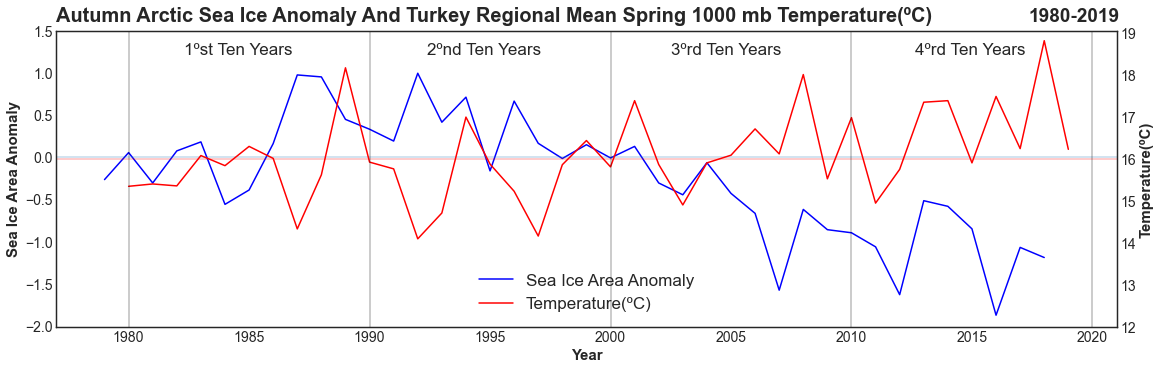
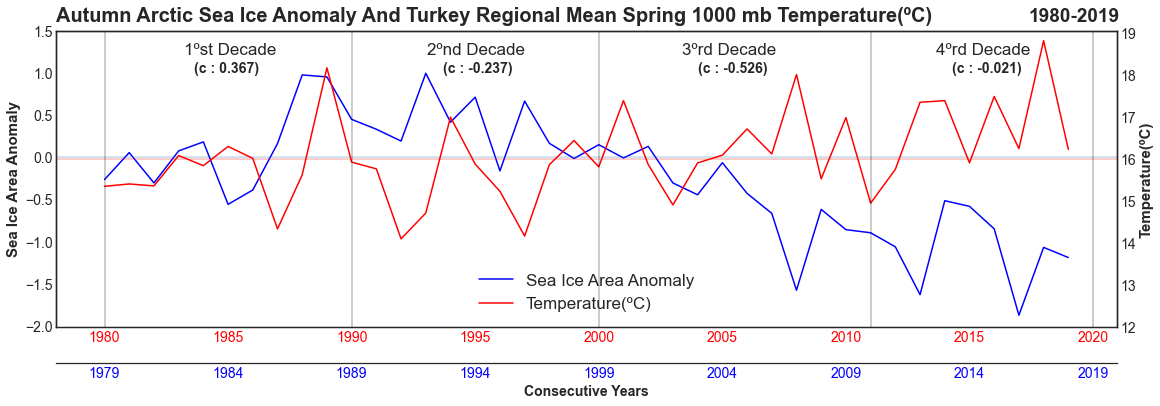
added and updated new figures and codes of PW Time series

diff --git a/PROJECT_CODES_Arctic/Timeseries_Codes/Arctic_Timeseries_Plot.py b/PROJECT_CODES_Arctic/Timeseries_Codes/Arctic_Timeseries_Plot.py
@@ -1,4 +1,3 @@
-import matplotlib.pyplot as plt
 import numpy as np
 import scipy
 import cartopy
@@ -10,13 +9,13 @@ import netCDF4
 import pandas as pd
 
 #To find autumnal arctic anomaly we import ARCTIC_ANOMALY_CALC.py which contains function that calculates autumnal arctic anomaly
-import .ARCTIC_ANOMALY_CALC
+import ARCTIC_ANOMALY_CALC
 
 anomalyseaice = ARCTIC_ANOMALY_CALC.arctic_autumnal_anomaly()
 
 def plot_winter_timeseries_ARCTIC(var):
     """ Return timeseries plot that includes Autumnal Arctic Sea Ice Anomalies and
-        desired variable values between the years 1979-2019
+        desired variable values for winter between the years 1979-2019
         var : Desired variable to plot with Autumnal Arctic Sea Ice Anomaly (Given as str)
               (MSLP, 1000MBTEMP, SNWCOV, PRECIPWATER)
     """
@@ -38,19 +37,19 @@ def plot_winter_timeseries_ARCTIC(var):
         plot_lim_sep = 1
         plot_title_ext = 'Temperature(ºC)'
         plot_title = '1000 mb Temperature(ºC)'
-    #####elif var == 'SNOWCOV':
-     #####   data_winter = xr.open_dataset(r'C:\Users\Lenovo\ML\Elcinhoca_proje\dataset_adjusted\CFSR_1979_2019_SNOWCOV_winter.nc')  
-     #####   data_winter = data_winter['SNOWC_L1_FcstAvg6hr']
-     #####   plot_lim_A = 0
-     #####   plot_lim_B = 35
-     #####   plot_lim_sep = 5
-     #####   plot_title_ext = 'Snow Cover (%)'
-     #####   plot_title = 'Snow Cover (%)'
+    elif var == 'PRECIPWATER':
+        data_winter = xr.open_dataset(r'C:\Users\Lenovo\ML\Elcinhoca_proje\dataset_adjusted\CFSR_1979_2019_PRECIPWATER_winter.nc')  
+        data_winter = data_winter['P_WAT_L200_Avg']
+        plot_lim_A = 7
+        plot_lim_B = 14
+        plot_lim_sep = 1
+        plot_title_ext = 'Precipitable Water(kg/m2)'
+        plot_title = 'Precipitable Water(kg/m2)'
     #_____________________________________________________#
     #                     PROCESS1                        #
     #_____________________________________________________#
     #Set winter months dec,jan,feb seperately for 30 years in a list
-    #1980[mart,nisan,mayıs], 1981[mart,nisan,mayıs]  NOTE:slice() funsction used be careful!
+    #1980[dec, jan, feb], 1981[dec, jan, feb]  NOTE:slice() funsction used be careful!
     data_winter_yearly_months = [] 
     time_iter = 0
     for i in range(41):
@@ -80,27 +79,36 @@ def plot_winter_timeseries_ARCTIC(var):
         wintertimeseries_data_40years_turkey_mean_array = np.array(wintertimeseries_data_40years_turkey_mean.values)/100
     elif var == '1000MBTEMP':
         wintertimeseries_data_40years_turkey_mean_array = np.array(wintertimeseries_data_40years_turkey_mean.values)-273.15
-    #####elif var == 'SNOWCOV':
-        #####wintertimeseries_data_40years_turkey_mean_array = np.array(wintertimeseries_data_40years_turkey_mean.values)
+    elif var == 'PRECIPWATER':
+        wintertimeseries_data_40years_turkey_mean_array = np.array(wintertimeseries_data_40years_turkey_mean.values)
     
     mean_for_plot_line = np.mean(wintertimeseries_data_40years_turkey_mean_array) 
     
-    #_____________________________________________________#
-    #                     PROCESS4                        #
-    #_____________________________________________________#
+    first_corr = np.corrcoef(anomalyseaice[0:10], wintertimeseries_data_40years_turkey_mean_array[0:10])
+    first_corr = np.round(first_corr[0,1], 3)
     
+    second_corr = np.corrcoef(anomalyseaice[10:20], wintertimeseries_data_40years_turkey_mean_array[10:20])
+    second_corr = np.round(second_corr[0,1], 3)
+    
+    third_corr = np.corrcoef(anomalyseaice[20:31], wintertimeseries_data_40years_turkey_mean_array[20:31])
+    third_corr = np.round(third_corr[0,1], 3)
+    
+    fourth_corr = np.corrcoef(anomalyseaice[31:40], wintertimeseries_data_40years_turkey_mean_array[31:40])
+    fourth_corr = np.round(fourth_corr[0,1], 3)
+    
+    corr_full = np.corrcoef(anomalyseaice[:], wintertimeseries_data_40years_turkey_mean_array[:])
+
     plt.style.use('seaborn-white')
     plt.rcParams['figure.figsize'] = 19, 12
     fig = plt.figure()
     ax1 = fig.add_subplot(2,1,1)
     yearsall = np.arange(1979,2019)
     yearsall1 = np.arange(1980,2020)
-    mesh1,=ax1.plot(yearsall,anomalyseaice[:],color='blue')
+    mesh1,=ax1.plot(yearsall1,anomalyseaice[:],color='blue')
     #mesh2,=ua_10_2006_2099['ua'].plot.line(ax=ax1,color='red')
 
 
     plt.ylabel('Sea Ice Area Anomaly', fontsize=15,weight='bold')
-    plt.xlabel('Year', fontsize=15,weight='bold')
     ax1.tick_params(axis='y', labelsize=14)
     ax1.tick_params(axis='x', labelsize=14)
     plt.yticks(np.arange(-2,1.6,0.5))
@@ -119,19 +127,221 @@ def plot_winter_timeseries_ARCTIC(var):
     plt.axvline(x = 1980, linewidth=0.4,color='k')
     plt.axvline(x = 1990, linewidth=0.4,color='k')
     plt.axvline(x = 2000, linewidth=0.4,color='k')
-    plt.axvline(x = 2010, linewidth=0.4,color='k')
+    plt.axvline(x = 2011, linewidth=0.4,color='k')
     plt.axvline(x = 2020, linewidth=0.4,color='k')
 
     ax2.tick_params(axis='y', labelsize=14)
+    
+    ####################
+    
+    # Set second x-axis
+    ax3 = ax2.twiny()
+    newlabel = [1974, 1979, 1984, 1989, 1994, 1999, 2004, 2009, 2014, 2019] # labels of the xticklabels: 
+    ax3.set_xticklabels(newlabel)
+    ax3.xaxis.set_ticks_position('bottom') # set the position of the second x-axis to bottom
+    ax3.xaxis.set_label_position('bottom') # set the position of the second x-axis to bottom
+    ax3.spines['bottom'].set_position(('outward', 36))
+    ax3.set_xlabel('Consecutive Years', fontsize=14, fontweight='bold')
+    ax3.set_xlim(ax2.get_xlim())
+    ax3.tick_params(axis='x', labelsize=14, color='red')
+    #ax3.spines["bottom"].set_color("blue")
+    #ax1.spines["bottom"].set_color("red")
+    #ax2.spines["bottom"].set_color("red")
+    ax1.tick_params(axis='x', colors='red')
+    ax2.tick_params(axis='x', colors='red')
+    ax3.tick_params(axis='x', colors='blue')
+    
+    ####################
 
     plt.legend([mesh1,  mesh2], ["Sea Ice Area Anomaly", "{}".format(plot_title_ext)],prop={'size': 17}, loc='lower center')
 
-    title4 = ax1.text(0.12, 0.92,'1ºst Ten Years', transform=ax1.transAxes,fontsize=17)
-    title4 = ax1.text(0.35, 0.92,'2ºnd Ten Years', transform=ax1.transAxes,fontsize=17)
-    title4 = ax1.text(0.58, 0.92,'3ºrd Ten Years', transform=ax1.transAxes,fontsize=17)
-    title4 = ax1.text(0.81, 0.92,'4ºrd Ten Years', transform=ax1.transAxes,fontsize=17)
+    title4 = ax1.text(0.12, 0.92,'1ºst Decade', transform=ax1.transAxes,fontsize=17)
+    title4 = ax1.text(0.13, 0.86, '(c : {})'.format(first_corr), transform=ax1.transAxes,fontsize=14, fontweight='bold')
+    
+    title4 = ax1.text(0.35, 0.92,'2ºnd Decade', transform=ax1.transAxes,fontsize=17)
+    title4 = ax1.text(0.365, 0.86,'(c : {})'.format(second_corr), transform=ax1.transAxes,fontsize=14, fontweight='bold')    
+    
+    title4 = ax1.text(0.59, 0.92,'3ºrd Decade', transform=ax1.transAxes,fontsize=17)
+    title4 = ax1.text(0.605, 0.86,'(c : {})'.format(third_corr), transform=ax1.transAxes,fontsize=14, fontweight='bold') 
+    
+    title4 = ax1.text(0.83, 0.92,'4ºrd Decade', transform=ax1.transAxes,fontsize=17)
+    title4 = ax1.text(0.85, 0.86,'(c : {})'.format(fourth_corr), transform=ax1.transAxes,fontsize=14, fontweight='bold') 
 
     title1 = ax1.text(0,1.03,'Autumn Arctic Sea Ice Anomaly And Turkey Regional Mean Winter {}'.format(plot_title),weight='bold',transform=ax1.transAxes,fontsize=20)
 
     title3 = ax1.text(0.917,1.03,'1980-2019',weight='bold',transform=ax1.transAxes,fontsize=19)
     plt.savefig(r'C:\Users\Lenovo\ML\Elcinhoca_proje\DATASET_WORKS\pictures\Sea_Ice_{}_Winter_Time_Series.png'.format(var) , bbox_inches='tight')
+    
+
+def plot_spring_timeseries_ARCTIC(var):
+    """ Return timeseries plot that includes Autumnal Arctic Sea Ice Anomalies and
+        desired variable values for spring between the years 1979-2019
+        var : Desired variable to plot with Autumnal Arctic Sea Ice Anomaly (Given as str)
+              (MSLP, 1000MBTEMP, SNWCOV, PRECIPWATER)
+    """
+    import matplotlib.pyplot as plt
+    import numpy as np
+    if var == 'MSLP':
+        data_spring = xr.open_dataset(r'C:\Users\Lenovo\ML\Elcinhoca_proje\dataset_adjusted\CFSR_1979_2019_MSLP_spring.nc')
+        data_spring = data_spring['PRMSL_L101_Avg'][3:,:,:] # Starts from 1980 march
+        plot_lim_A = 1010
+        plot_lim_B = 1020
+        plot_lim_sep = 2
+        plot_title_ext = 'Pressure(hPa)'
+        plot_title = 'MSLP(hPa)'
+    elif var == '1000MBTEMP':
+        data_spring = xr.open_dataset(r'C:\Users\Lenovo\ML\Elcinhoca_proje\dataset_adjusted\CFSR_1979_2019_1000MBTEMP_spring.nc')  
+        data_spring = data_spring['TMP_L100_Avg'][3:,:,:] # Starts from 1980 march
+        plot_lim_A = 12
+        plot_lim_B = 20
+        plot_lim_sep = 1
+        plot_title_ext = 'Temperature(ºC)'
+        plot_title = '1000 mb Temperature(ºC)'
+        
+    elif var == 'PRECIPWATER':
+        data_spring = xr.open_dataset(r'C:\Users\Lenovo\ML\Elcinhoca_proje\dataset_adjusted\CFSR_1979_2019_PRECIPWATER_spring.nc')  
+        data_spring = data_spring['P_WAT_L200_Avg']
+        plot_lim_A = 7
+        plot_lim_B = 14
+        plot_lim_sep = 1
+        plot_title_ext = 'Precipitable Water(kg/m2)'
+        plot_title = 'Precipitable Water(kg/m2)'
+        
+    #####elif var == 'SNOWCOV':
+     #####   data_spring = xr.open_dataset(r'C:\Users\Lenovo\ML\Elcinhoca_proje\dataset_adjusted\CFSR_1979_2019_SNOWCOV_spring.nc')  
+     #####   data_spring = data_spring['SNOWC_L1_FcstAvg6hr']
+     #####   plot_lim_A = 0
+     #####   plot_lim_B = 35
+     #####   plot_lim_sep = 5
+     #####   plot_title_ext = 'Snow Cover (%)'
+     #####   plot_title = 'Snow Cover (%)'
+    
+    #_____________________________________________________#
+    #                     PROCESS1                        #
+    #_____________________________________________________#
+    #Set winter months march,april,may seperately for 30 years in a list
+    #1980[mart,nisan,mayıs], 1981[mart,nisan,mayıs]  NOTE:slice() funsction used be careful!
+    data_spring_yearly_months = [] 
+    time_iter = 0
+    for i in range(41):
+
+        dt = data_spring.isel(time = slice(time_iter,time_iter+3))
+        time_iter+=3
+        data_spring_yearly_months.append(dt)
+    
+    #_____________________________________________________#
+    #                     PROCESS2                        #
+    #_____________________________________________________#
+    #Average value of each seperate year is calculated(i.e. ave(1979[mar,apr,may]), ave(1980[mar,apr,may]) ... )
+    #It results in spring values for each year in each latitude and longitude
+    data_spring_yearly = []
+    for i in range(41):
+        a = data_spring_yearly_months[i].mean(dim='time')
+        data_spring_yearly.append(a)
+        
+    #_____________________________________________________#
+    #                     PROCESS3                        #
+    #_____________________________________________________#
+    #Concat 40 seperate dataset with respect to time
+    #From 1980 spring to 2019 spring
+    springtimeseries_data_40years = xr.concat(data_spring_yearly[:-1],dim='time')
+    springtimeseries_data_40years_turkey_mean = springtimeseries_data_40years.sel(lat=slice(42,36),lon=slice(26,45)).mean(dim=['lat','lon'])
+    if var == 'MSLP':
+        springtimeseries_data_40years_turkey_mean_array = np.array(springtimeseries_data_40years_turkey_mean.values)/100
+    elif var == '1000MBTEMP':
+        springtimeseries_data_40years_turkey_mean_array = np.array(springtimeseries_data_40years_turkey_mean.values)-273.15
+    elif var == 'PRECIPWATER':
+        springtimeseries_data_40years_turkey_mean_array = np.array(springtimeseries_data_40years_turkey_mean.values)
+    
+    mean_for_plot_line = np.mean(springtimeseries_data_40years_turkey_mean_array) 
+    
+    first_corr = np.corrcoef(anomalyseaice[0:10], springtimeseries_data_40years_turkey_mean_array[0:10])
+    first_corr = np.round(first_corr[0,1], 3)
+    
+    second_corr = np.corrcoef(anomalyseaice[10:20], springtimeseries_data_40years_turkey_mean_array[10:20])
+    second_corr = np.round(second_corr[0,1], 3)
+    
+    third_corr = np.corrcoef(anomalyseaice[20:31], springtimeseries_data_40years_turkey_mean_array[20:31])
+    third_corr = np.round(third_corr[0,1], 3)
+    
+    fourth_corr = np.corrcoef(anomalyseaice[31:40], springtimeseries_data_40years_turkey_mean_array[31:40])
+    fourth_corr = np.round(fourth_corr[0,1], 3)
+    
+    corr_full = np.corrcoef(anomalyseaice[:], springtimeseries_data_40years_turkey_mean_array[:])
+    
+    
+    plt.style.use('seaborn-white')
+    plt.rcParams['figure.figsize'] = 19, 12
+    fig = plt.figure()
+    ax1 = fig.add_subplot(2,1,1)
+    yearsall = np.arange(1979,2019)
+    yearsall1 = np.arange(1980,2020)
+    mesh1,=ax1.plot(yearsall1,anomalyseaice[:],color='blue')
+    #mesh2,=ua_10_2006_2099['ua'].plot.line(ax=ax1,color='red')
+
+
+    plt.ylabel('Sea Ice Area Anomaly', fontsize=15,weight='bold')
+    ax1.tick_params(axis='y', labelsize=14)
+    ax1.tick_params(axis='x', labelsize=14)
+    plt.yticks(np.arange(-2,1.6,0.5))
+    plt.xticks(rotation=0)
+    plt.axhline(y=0, linewidth=0.4)
+
+
+
+    ax2 = ax1.twinx()
+    mesh2,=ax2.plot(yearsall1,springtimeseries_data_40years_turkey_mean_array,color='red')
+
+    plt.ylabel('{}'.format(plot_title_ext), fontsize=15,weight='bold')
+    plt.yticks(np.arange(plot_lim_A,plot_lim_B,plot_lim_sep))                          
+    plt.axhline(y=int(mean_for_plot_line), linewidth=0.4,color='red')
+
+    plt.axvline(x = 1980, linewidth=0.4,color='k')
+    plt.axvline(x = 1990, linewidth=0.4,color='k')
+    plt.axvline(x = 2000, linewidth=0.4,color='k')
+    plt.axvline(x = 2011, linewidth=0.4,color='k')
+    plt.axvline(x = 2020, linewidth=0.4,color='k')
+
+    ax2.tick_params(axis='y', labelsize=14)
+    
+    ####################
+    
+    # Set second x-axis
+    ax3 = ax2.twiny()
+    newlabel = [1974, 1979, 1984, 1989, 1994, 1999, 2004, 2009, 2014, 2019] # labels of the xticklabels: 
+    ax3.set_xticklabels(newlabel)
+    ax3.xaxis.set_ticks_position('bottom') # set the position of the second x-axis to bottom
+    ax3.xaxis.set_label_position('bottom') # set the position of the second x-axis to bottom
+    ax3.spines['bottom'].set_position(('outward', 36))
+    ax3.set_xlabel('Consecutive Years', fontsize=14, fontweight='bold')
+    ax3.set_xlim(ax2.get_xlim())
+    ax3.tick_params(axis='x', labelsize=14, color='red')
+    #ax3.spines["bottom"].set_color("blue")
+    #ax1.spines["bottom"].set_color("red")
+    #ax2.spines["bottom"].set_color("red")
+    ax1.tick_params(axis='x', colors='red')
+    ax2.tick_params(axis='x', colors='red')
+    ax3.tick_params(axis='x', colors='blue')
+    
+    ####################
+
+    plt.legend([mesh1,  mesh2], ["Sea Ice Area Anomaly", "{}".format(plot_title_ext)],prop={'size': 17}, loc='lower center')
+
+    title4 = ax1.text(0.12, 0.92,'1ºst Decade', transform=ax1.transAxes,fontsize=17)
+    title4 = ax1.text(0.13, 0.86, '(c : {})'.format(first_corr), transform=ax1.transAxes,fontsize=14, fontweight='bold')
+    
+    title4 = ax1.text(0.35, 0.92,'2ºnd Decade', transform=ax1.transAxes,fontsize=17)
+    title4 = ax1.text(0.365, 0.86,'(c : {})'.format(second_corr), transform=ax1.transAxes,fontsize=14, fontweight='bold')    
+    
+    title4 = ax1.text(0.59, 0.92,'3ºrd Decade', transform=ax1.transAxes,fontsize=17)
+    title4 = ax1.text(0.605, 0.86,'(c : {})'.format(third_corr), transform=ax1.transAxes,fontsize=14, fontweight='bold') 
+    
+    title4 = ax1.text(0.83, 0.92,'4ºrd Decade', transform=ax1.transAxes,fontsize=17)
+    title4 = ax1.text(0.845, 0.86,'(c : {})'.format(fourth_corr), transform=ax1.transAxes,fontsize=14, fontweight='bold') 
+
+    
+    title1 = ax1.text(0,1.03,'Autumn Arctic Sea Ice Anomaly And Turkey Regional Mean Spring {}'.format(plot_title),weight='bold',transform=ax1.transAxes,fontsize=20)
+
+    title3 = ax1.text(0.917,1.03,'1980-2019',weight='bold',transform=ax1.transAxes,fontsize=19)
+    plt.savefig(r'C:\Users\Lenovo\ML\Elcinhoca_proje\DATASET_WORKS\pictures\Sea_Ice_{}_Spring_Time_Series.png'.format(var) , bbox_inches='tight')
+    

diff --git a/PROJECT_CODES_Arctic/Timeseries_Codes/CONCAT_30_with_10.py b/PROJECT_CODES_Arctic/Timeseries_Codes/CONCAT_30_with_10.py
@@ -31,3 +31,10 @@ def concat_springs(data1 , data2, var):
     data_spring_10 = xr.open_dataset(r'C:\Users\Lenovo\ML\Elcinhoca_proje\dataset_adjusted\{}.nc'.format(data2))
     concatted_data = xr.concat([data_spring_30,data_spring_10], dim='time')
     concatted.to_netcdf(r'C:\Users\Lenovo\ML\Elcinhoca_proje\dataset_adjusted\CFSR_1979_2019_{}_spring.nc'.format(var))
+    
+concat_winters(data1 = 'CFSR_MSL_Pressure_NORTH', data2 =  '2011_2020_CFSR_MSLP_WINTER_MSLP', var='MSLP' )
+concat_winters(data1 = 'CFSR_1000MB_TEMP_NORTH_WINTER', data2 =  '2011_2020_CFSR_1000MBTEMP_WINTER', var='1000MBTEMP')
+concat_springs(data1 = 'CFSR_MSL_Pressure_NORTH_SPRING', data2 =  '2011_2020_CFSR_MSLP_SPRING_MSLP', var='MSLP')
+concat_springs(data1 = 'CFSR_1000MB_TEMP_NORTH_SPRING', data2 =  '2011_2020_CFSR_1000MBTEMP_SPRING', var='1000MBTEMP')
+concat_winters(data1 = 'CFSR_PRECIPWATER_NORTH_WINTER', data2 =  '2011_2020_CFSR_PRECIPWATER_WINTER', var='PRECIPWATER')
+concat_springs(data1 = 'CFSR_PRECIPWATER_NORTH_SPRING', data2 =  '2011_2020_CFSR_PRECIPWATER_SPRING', var='PRECIPWATER')

diff --git a/PROJECT_CODES_Arctic/Timeseries_Codes/PLOT_TIMESERIES_ArTuC.py b/PROJECT_CODES_Arctic/Timeseries_Codes/PLOT_TIMESERIES_ArTuC.py
@@ -8,3 +8,5 @@ MSLP_winterplotter = Arctic_Timeseries_Plot.plot_winter_timeseries_ARCTIC('MSLP'
 MSLP_springplotter = Arctic_Timeseries_Plot.plot_spring_timeseries_ARCTIC('MSLP')
 TEMP1000MB_winterplotter = Arctic_Timeseries_Plot.plot_winter_timeseries_ARCTIC('1000MBTEMP')
 TEMP1000MB_springplotter = Arctic_Timeseries_Plot.plot_spring_timeseries_ARCTIC('1000MBTEMP')
+PRECIPWATER_winterplotter = Arctic_Timeseries_Plot.plot_winter_timeseries_ARCTIC('PRECIPWATER')
+PRECIPWATER_springplotter = Arctic_Timeseries_Plot.plot_spring_timeseries_ARCTIC('PRECIPWATER')
